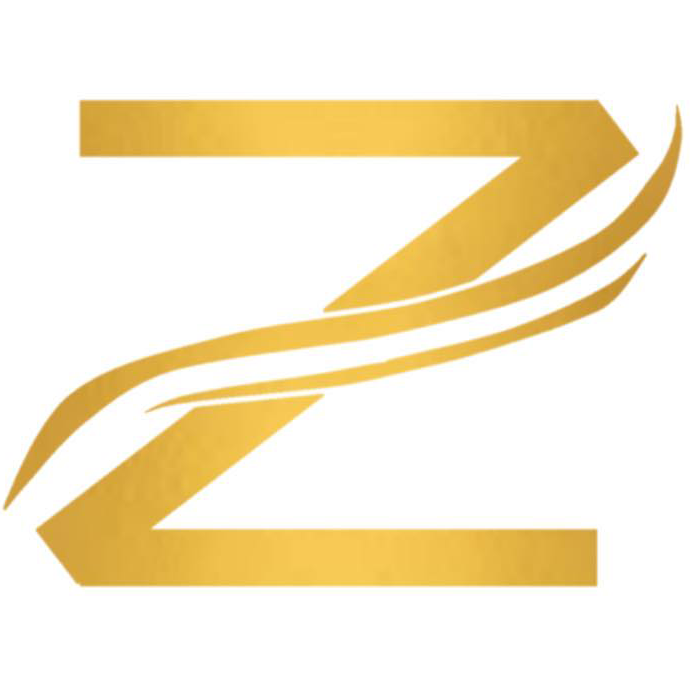
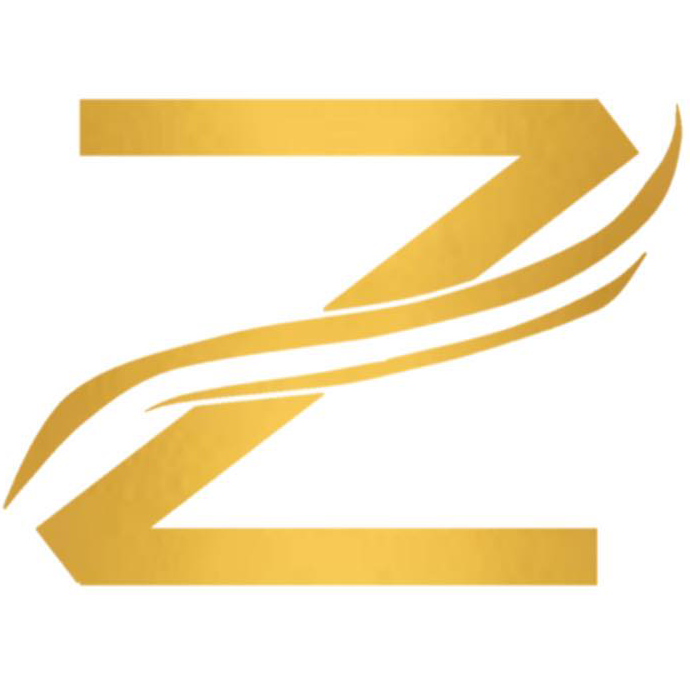
updated photo

diff --git a/src/components/Images/ImageLogo.js b/src/components/Images/ImageLogo.js
@@ -5,7 +5,7 @@ import Img from "gatsby-image";
 const ImageLogo = () => {
   const data = useStaticQuery(graphql`
     query {
-      placeholderImage: file(relativePath: { eq: "zion-icon.png" }) {
+      placeholderImage: file(relativePath: { eq: "zion-icon.jpg" }) {
         childImageSharp {
           fixed(width: 40) {
             ...GatsbyImageSharpFixed
